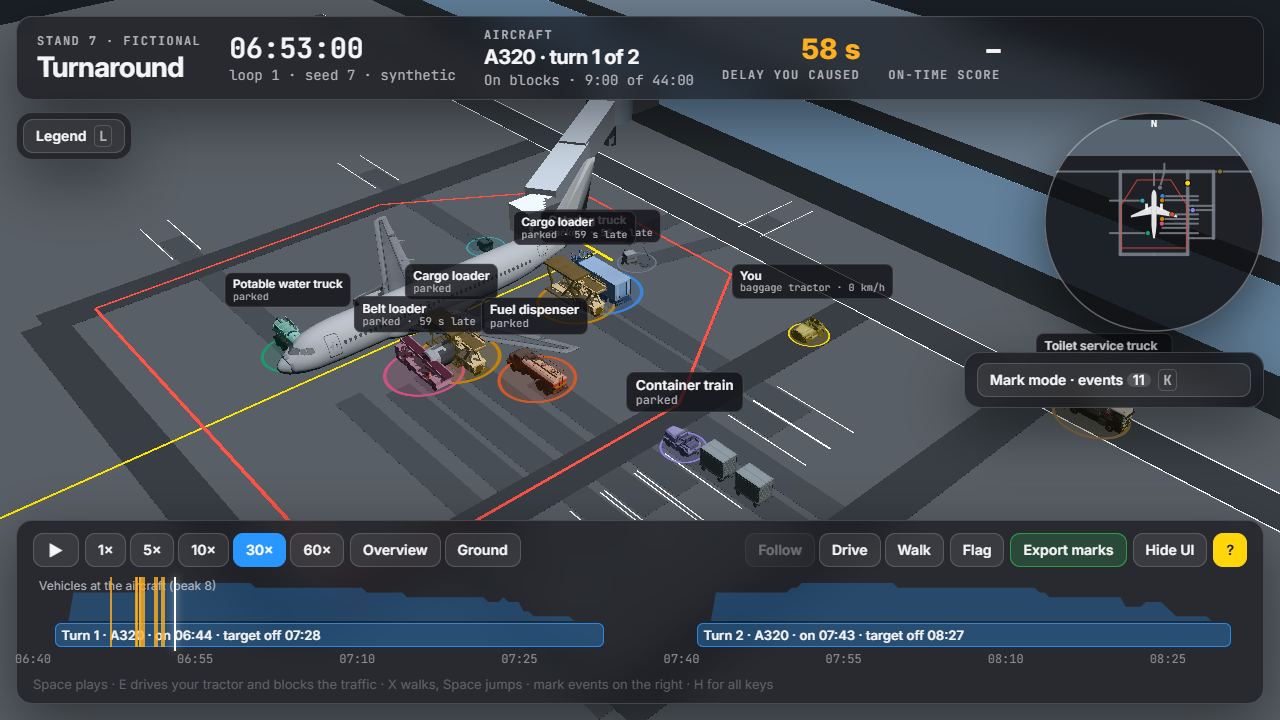
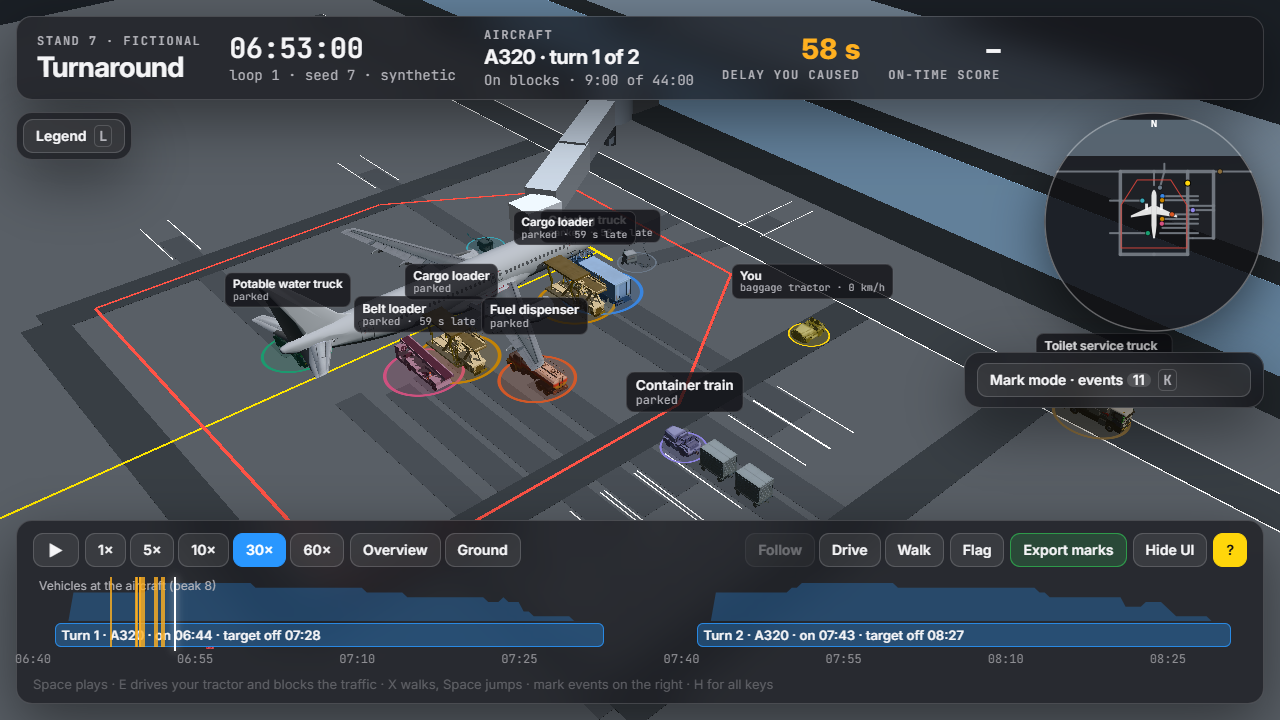
Turn the aircraft model round: its nose is at -z
The leak check reads only image metadata (PNG text chunks, GIF comment and
application blocks), not pixel bytes, which matched short terms by chance.

diff --git a/src/app/app.js b/src/app/app.js
@@ -110,18 +110,20 @@ function buildStand() {
 
 /* ---------- the aircraft: the A320 model (GPLv2, credited in the README), scaled to the manual's length ---------- */
 const AC = { model: null };
-const AC_GLB = { uri: 'models/a320.glb', noseZ: 22.44, tailZ: -15.83, wheelY: -0.78 };   // the model's own extents (glTF metres)
+// the model's own extents (glTF metres): its nose is at -z and its tail at +z, so it is turned half round
+const AC_GLB = { uri: 'models/a320.glb', noseZ: -15.83, tailZ: 22.44, wheelY: -0.78 };
 async function buildAircraft() {
   AC.model = await loadModel(AC_GLB.uri, { show: false });
-  AC.scale = table.dimensions.length_m / (AC_GLB.noseZ - AC_GLB.tailZ);
+  AC.scale = table.dimensions.length_m / (AC_GLB.tailZ - AC_GLB.noseZ);
 }
 function placeAircraft(a) {
   if (!AC.model) return;
   AC.model.show = a.phase !== 'absent';
   if (!AC.model.show) return;
-  const s = AC.scale, back = AC_GLB.noseZ * s;     // the model's origin sits this far behind the nose
-  const [X, Y, Z] = flat(a.h);
-  AC.model.modelMatrix = frame(new C.Matrix4(), [a.nx - X[0] * back, a.ny - X[1] * back, -AC_GLB.wheelY * s], X, Y, Z, [s, s, s]);
+  const s = AC.scale, back = -AC_GLB.noseZ * s;    // the model's origin sits this far behind the nose
+  const fx = Math.cos(a.h), fy = Math.sin(a.h);
+  const [X, Y, Z] = flat(a.h + Math.PI);
+  AC.model.modelMatrix = frame(new C.Matrix4(), [a.nx - fx * back, a.ny - fy * back, -AC_GLB.wheelY * s], X, Y, Z, [s, s, s]);
 }
 
 /* ---------- jet bridge (illustrative), as in the earlier replay: rotunda, two telescoping tunnels, cab, bogie ---------- */
